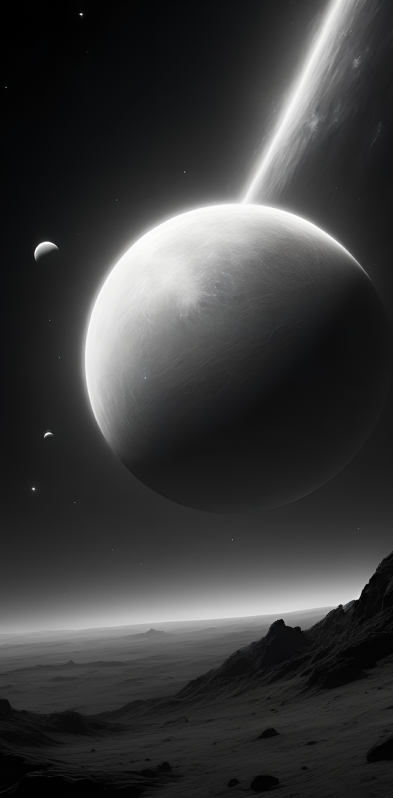
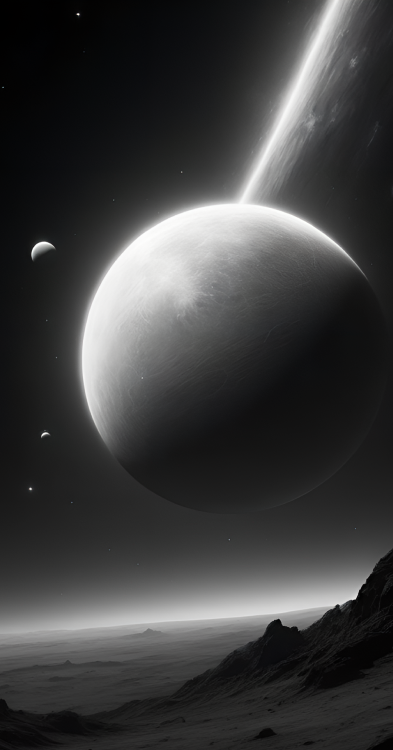
fix interface 2

diff --git a/src/pages/MainPage.tsx b/src/pages/MainPage.tsx
@@ -7,11 +7,7 @@ import Modal from "./Modal"
 
 const ruText = '👆Твое приглашение здесь\n' +
     '\n' +
-    'Я дарю тебе Домик Хомяка 🎁🛖🐹. Забери его сейчас и стань одним из первых участников самой горячей build-to-earn игры в Telegram — CITY Holder 🏠. Будь одним из первых и пригласи своих друзей 👨🦱👳♂🧔♂🙎♀👩🍳.\n' +
-    '\n' +
-    '🎁 Забери бесплатно Домик Хомяка 🐹\n' +
-    '🦸♂ Построй свой Дом Друзей\n' +
-    '🔥 3 уровня реферальной программы'
+    'Заходи в Open Space AI!'
 
 const copyTextToClipboard = async (text: string) => {
     try {
@@ -25,7 +21,7 @@ const copyTextToClipboard = async (text: string) => {
 const MainPage = () => {
     const [isCopied, setIsCopied] = React.useState(false);
     const [isMounted, setMounted] = React.useState(false);
-    // const [count, setCount] = React.useState(1);
+    const [progressLevel, setProgressLevel] = React.useState(2);
 
     React.useEffect(() => {
         // setTimeout(()=> setCount(count + 1), 5000)
@@ -49,13 +45,15 @@ const MainPage = () => {
                         </div>
                     </div>
                     <div className="border-2 border-white overflow-hidden rounded-r-[30px] rounded-bl-[30px] h-[20px] mt-[5px]">
-                        <span className={`block rounded-r-[30px] h-full bg-white ${"w-" + 2 + "/5"}`}></span>
+                        <span className={`block rounded-r-[30px] h-full bg-white w-1/5`}></span>
                     </div>
                 </div>
                 <div className="w-full flex justify-center relative -top-[12px] z-1">
-                    <img src={planetPng} className="planet" />
+                    <div className="planet rounded-full">
+                        <img src={planetPng} className=" " />
+                    </div>
                 </div>
-                <div className="flex-col mt-[6px] mx-[30px] items-end">
+                <div className="flex-col  mx-[30px] items-end">
                     <div className="text-center">
                         Приглашай друзей! Чем больше друзей вы пригласите, тем выше будет уровень вашей планеты
                     </div>

diff --git a/src/App.tsx b/src/App.tsx
@@ -19,7 +19,7 @@ function App() {
   }, [])
 
   return (
-    <div className='h-full min-h-[798px]'>
+    <div className='h-full min-h-[750px]'>
       {isLoaded ?
         (
           <MainPage />

diff --git a/src/index.css b/src/index.css
@@ -51,7 +51,8 @@ h1 {
 }
 
 .planet{
-  width: 71.3%
+  width: 59.3%;
+  box-shadow: inset 0px 5px 10px 0px #FFFFFF, 0px -3px 7px 0px #FFFFFF;
 }
 
 .green-copy {
